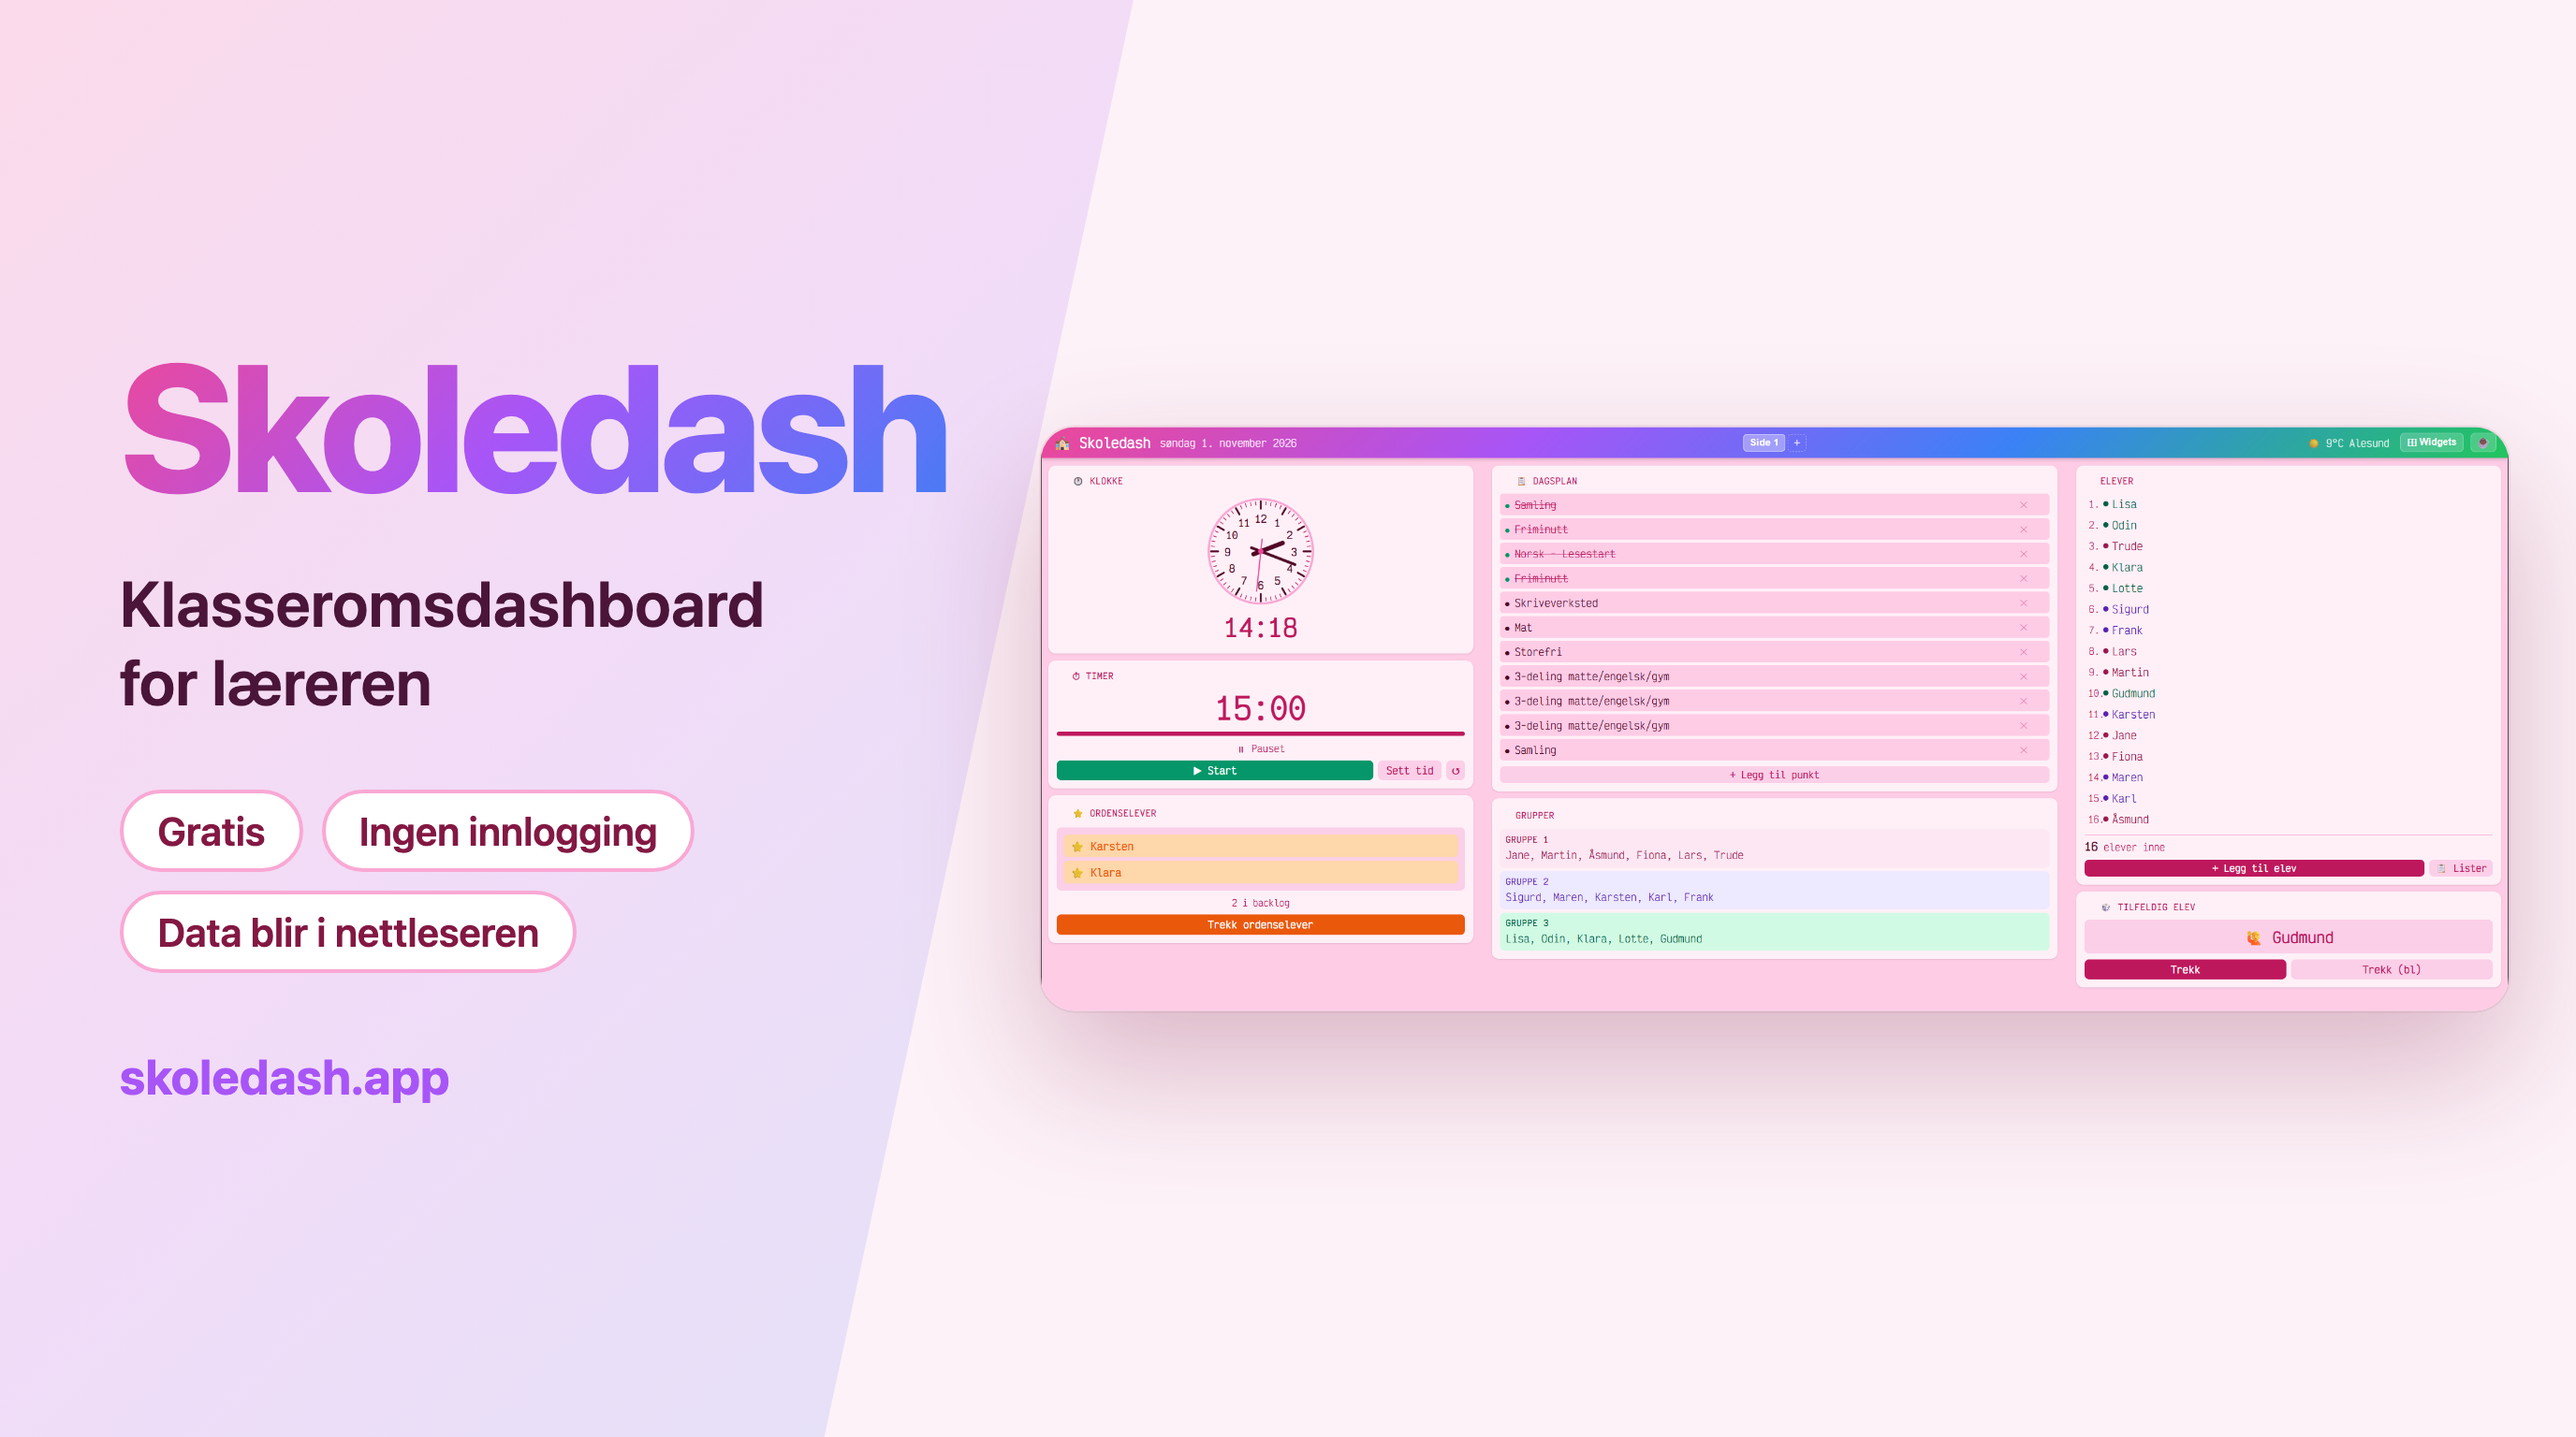
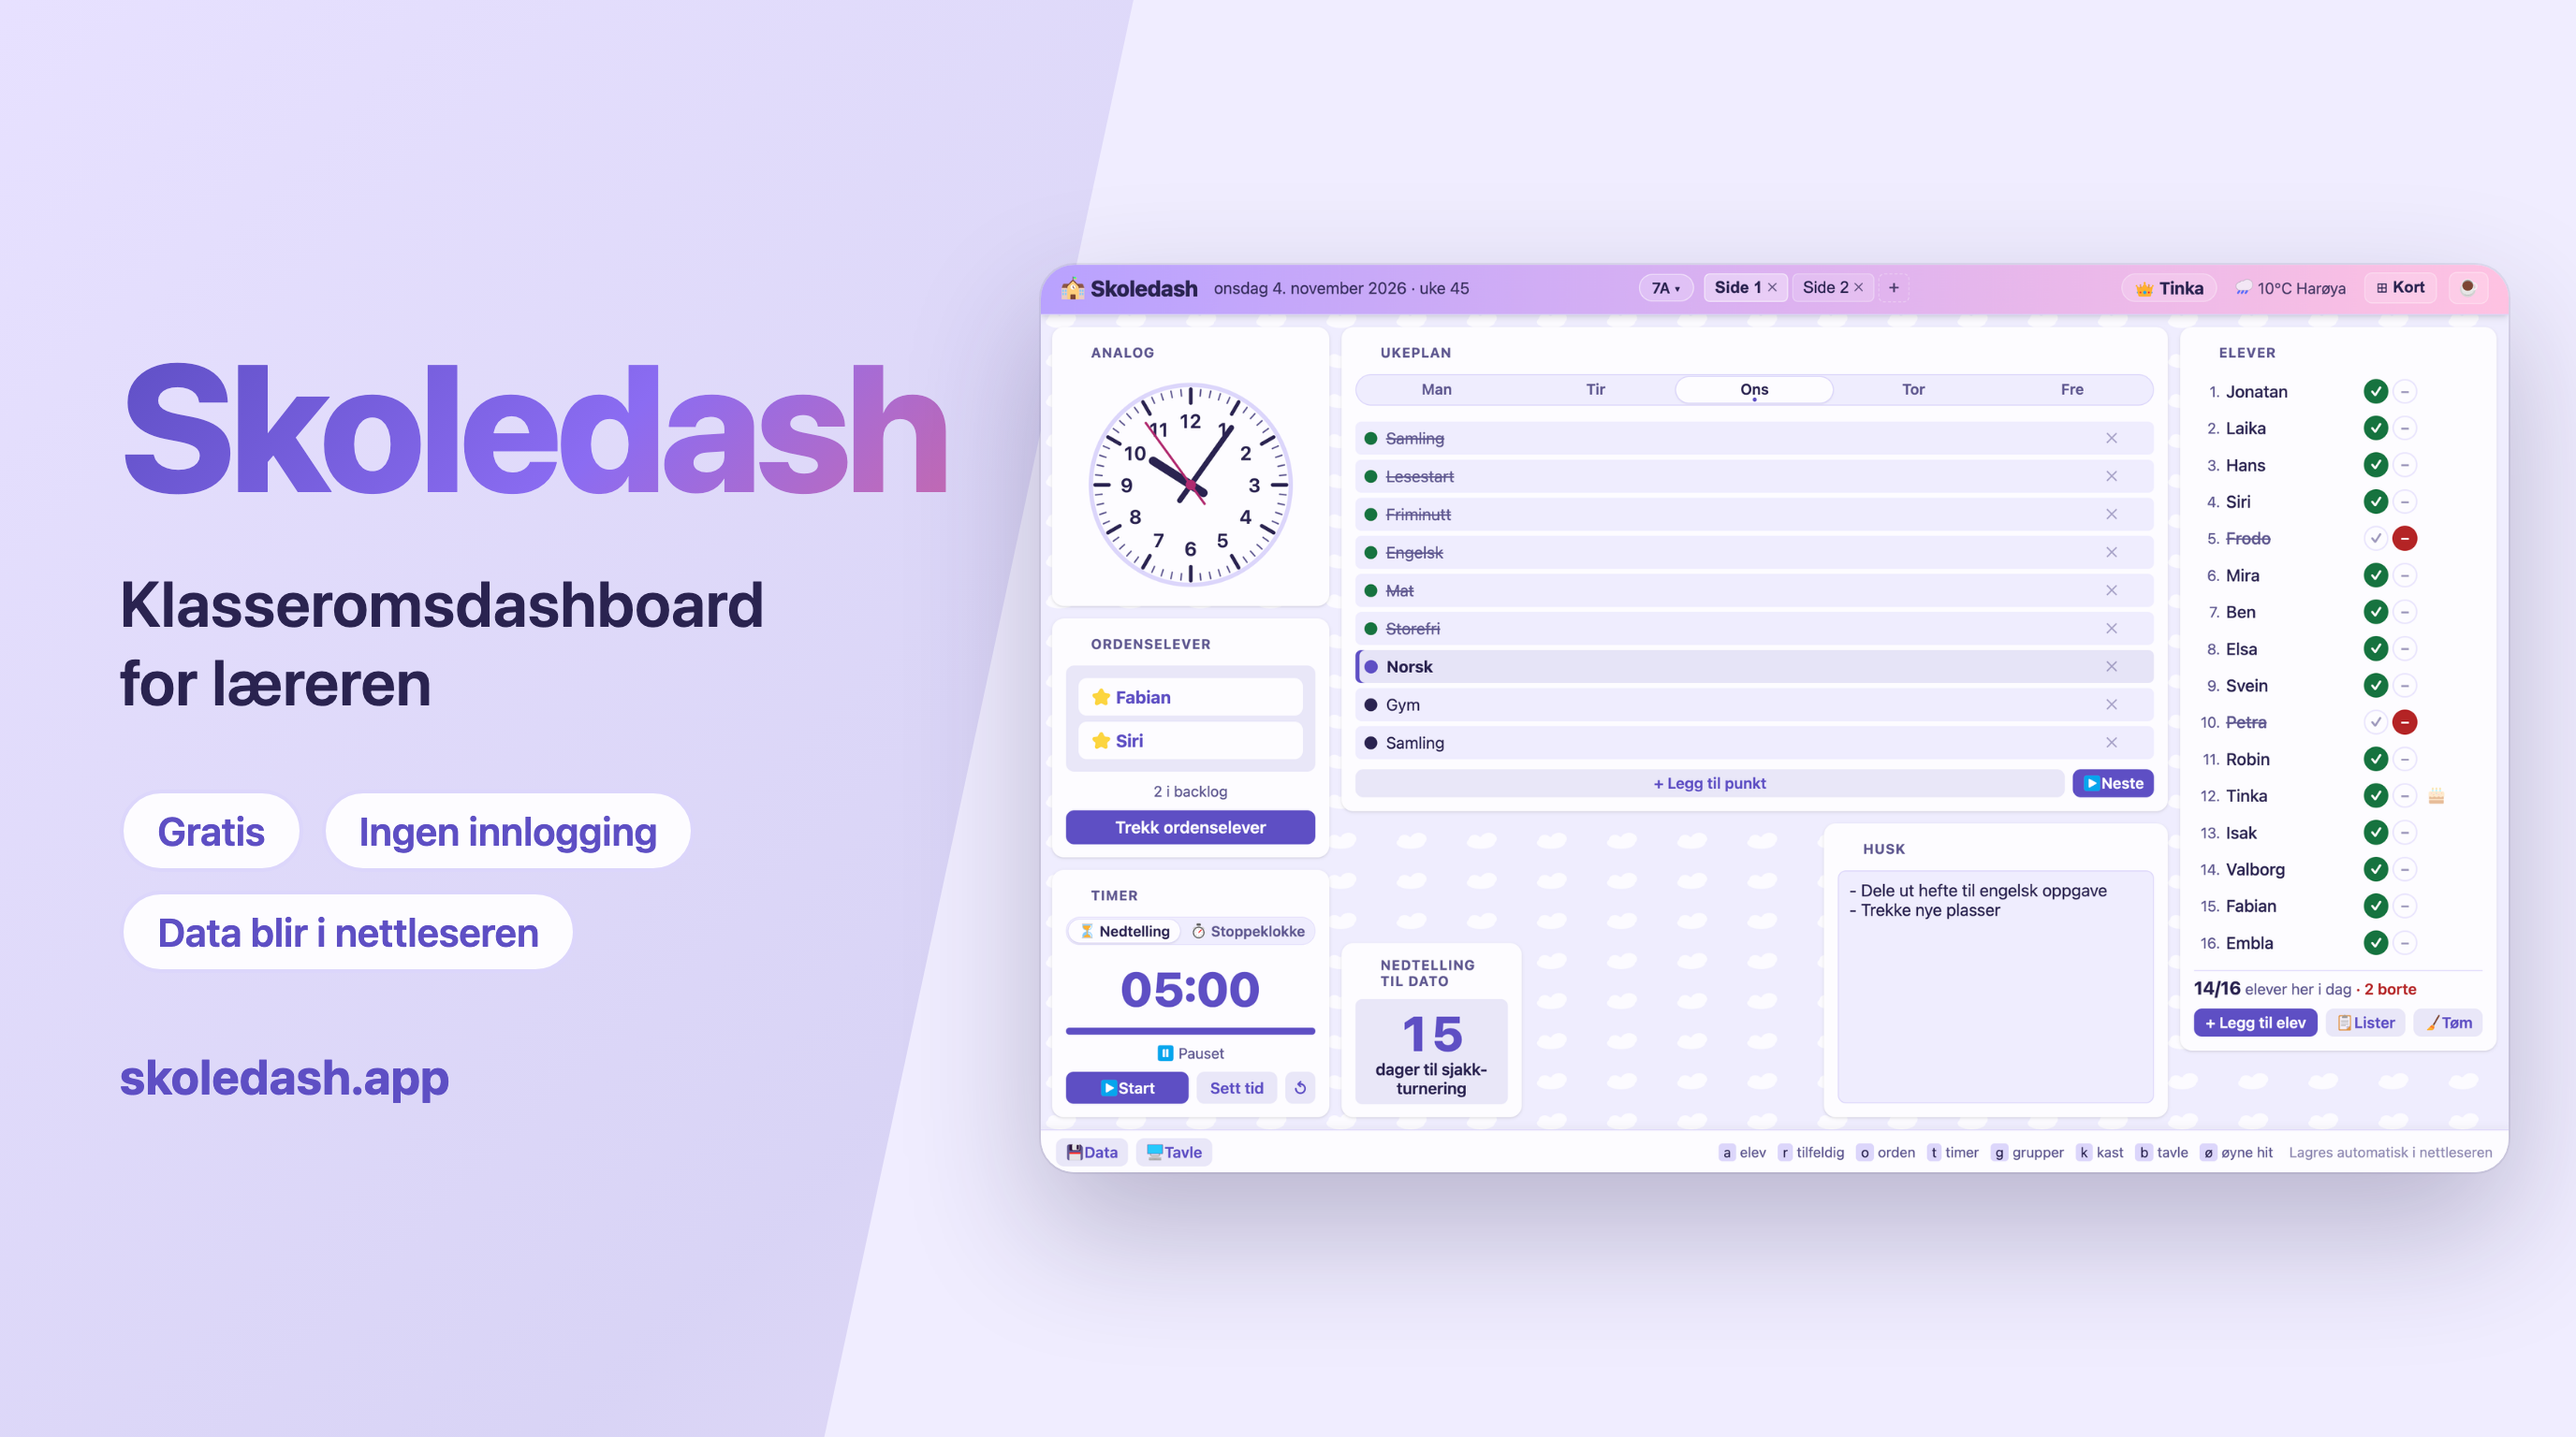
Nytt delebilde (og:image) med v2.63-dashbordet

diff --git a/index.html b/index.html
@@ -11,14 +11,14 @@
   <meta property="og:type" content="website">
   <meta property="og:title" content="Skoledash: klasseromsdashboard for læreren">
   <meta property="og:description" content="Navnetrekking, grupper, timer og dagsplan i ett oversiktlig dashboard. Alt lagres lokalt i nettleseren.">
-  <meta property="og:image" content="https://skoledash.app/og-image.png?v=2">
+  <meta property="og:image" content="https://skoledash.app/og-image.png?v=3">
   <meta property="og:image:width" content="2752">
   <meta property="og:image:height" content="1536">
   <meta property="og:url" content="https://skoledash.app/">
   <meta name="twitter:card" content="summary_large_image">
   <meta name="twitter:title" content="Skoledash: klasseromsdashboard for læreren">
   <meta name="twitter:description" content="Navnetrekking, grupper, timer og dagsplan i ett oversiktlig dashboard.">
-  <meta name="twitter:image" content="https://skoledash.app/og-image.png?v=2">
+  <meta name="twitter:image" content="https://skoledash.app/og-image.png?v=3">
   <!-- Setter lagret tema før første tegning, så det ikke blinker lyst (se fila). -->
   <script src="tema-tidlig.js"></script>
   <link rel="stylesheet" href="style.css">
